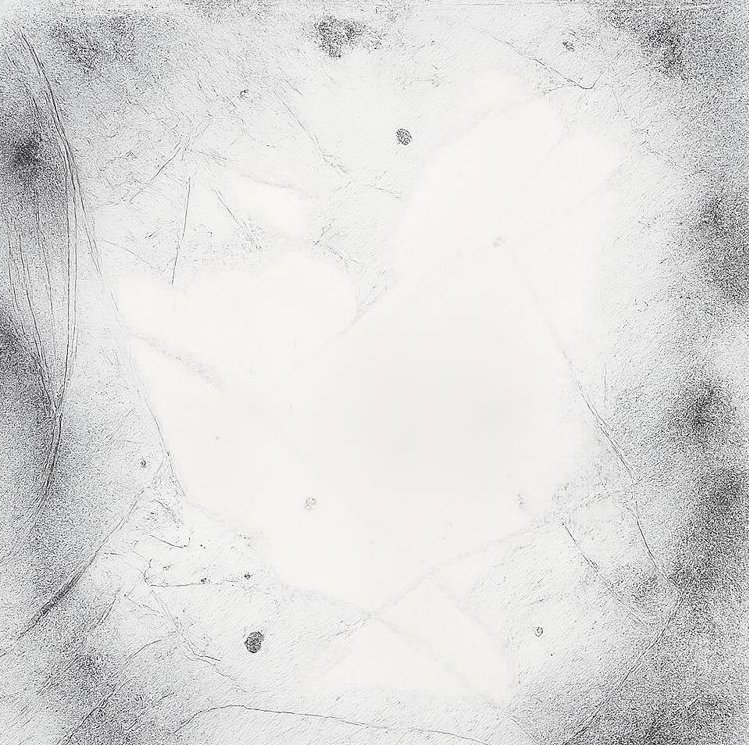
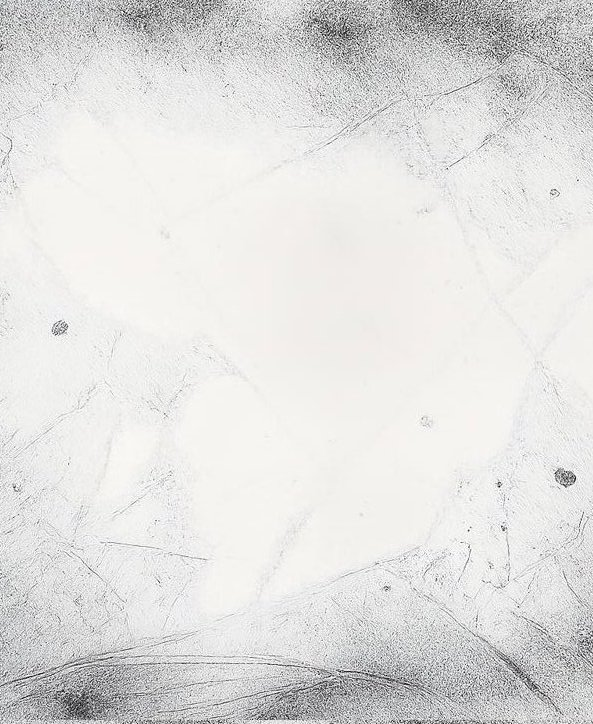
[ADD] HUD overlay and circle clip to periscope

diff --git a/pw2/System/MyPostProcessing.js b/pw2/System/MyPostProcessing.js
@@ -4,12 +4,13 @@ import { RenderPass } from 'three/addons/postprocessing/RenderPass.js';
 import { BokehPass } from 'three/addons/postprocessing/BokehPass.js';
 import { OutputPass } from 'three/addons/postprocessing/OutputPass.js';
 import { TintEffect } from './TintEffect.js';
-import { ScratchesEffect } from './ScratchesEffect.js';
+import { CameraOverlay } from './CameraOverlay.js';
+import { CircleClip } from './CircleClip.js'
 
 /**
- * @param {number} leafSize
- * @param {number} leafSize
- * @param {number} leafSize
+ * MyPostProcessing
+ * Manages the render and post-processing effects.
+ * Controls which effects are applied based on the active camera.
  */
 class MyPostProcessing {
     constructor (
@@ -30,13 +31,13 @@ class MyPostProcessing {
     this.renderPass = new RenderPass(scene, camera);
     this.composer.addPass(this.renderPass);
 
+    // DoF effect
     this.params = {
         focus: 5,
         aperture: 0.00025,
         maxblur: 0.01
     };
 
-    // DoF effect
     this.bokehPass = new BokehPass(scene, camera, {
         focus: this.params.focus,
         aperture: this.params.aperture,
@@ -46,6 +47,7 @@ class MyPostProcessing {
     this.bokehPass.enabled = false
     this.composer.addPass(this.bokehPass);
 
+    // Output Pass for color
     this.outputPass = new OutputPass();
     this.composer.addPass(this.outputPass);
 
@@ -59,9 +61,17 @@ class MyPostProcessing {
     // Scratches effect
     const loader = new THREE.TextureLoader()
     const scratchesTex = loader.load('objects/assets/periscope/scratches.jpeg')
-    this.scratchesEffect = new ScratchesEffect(scratchesTex, 0.2)
+    this.scratchesEffect = new CameraOverlay(scratchesTex, 0.3, false)
     this.composer.addPass(this.scratchesEffect.pass)
 
+    // HUD effect
+    const hudTex = loader.load('objects/assets/periscope/HUD.png')
+    this.hudEffect = new CameraOverlay(hudTex, 0.7, true)
+    this.composer.addPass(this.hudEffect.pass)
+
+    // Clip effect
+    this.circleClipEffect = new CircleClip(0.55)
+    this.composer.addPass(this.circleClipEffect.pass)
     }
 
     update() {
@@ -81,11 +91,22 @@ class MyPostProcessing {
         this.bokehPass.enabled = !!camera.userData.useDOF;
         this.tintEffect.pass.enabled = !!camera.userData.useTint;
         this.scratchesEffect.pass.enabled = !!camera.userData.useScratches;
-        
+        this.hudEffect.pass.enabled = !!camera.userData.useHUD;
+        this.circleClipEffect.pass.enabled = !!camera.userData.useCircleClip
     }
 
     resize(width, height) {
         this.composer.setSize(width * this.resScale, height * this.resScale);
+
+        if (this.hudEffect.pass.enabled) {
+            this.hudEffect.resize(width, height)
+        }
+        if (this.scratchesEffect.pass.enabled) {
+            this.scratchesEffect.resize(width, height)
+        }
+        if (this.circleClipEffect.pass.enabled) {
+            this.circleClipEffect.resize(width, height)
+        }
     }
 
     render() {

diff --git a/pw2/System/CameraOverlay.js b/pw2/System/CameraOverlay.js
@@ -1,0 +1,72 @@
+import * as THREE from 'three'
+import { ShaderPass } from 'three/addons/postprocessing/ShaderPass.js'
+
+/**
+ * CameraOverlay
+ * Applies a screen-space overlay texture to the camera view.
+ *
+ * Note: the input texture must have a white background.
+ * A multiply blend is used, where white is neutral and darker details remain visible.
+ */
+class CameraOverlay {
+    constructor(texture, strength = 0.3, keepAspect = false) {
+
+        this.pass = new ShaderPass({
+            uniforms: {
+                tDiffuse: { value: null },
+                inputTex: { value: texture },
+                strength: { value: strength },
+                resolution: { value: new THREE.Vector2(window.innerWidth, window.innerHeight) },
+                uKeepAspect: { value: keepAspect ? 1.0 : 0.0 }
+            },
+
+            vertexShader: `
+                varying vec2 vUv;
+                void main() {
+                    vUv = uv;
+                    gl_Position = projectionMatrix * modelViewMatrix * vec4(position, 1.0);
+                }
+            `,
+
+            fragmentShader: `
+                uniform sampler2D tDiffuse;
+                uniform sampler2D inputTex;
+                uniform float strength;
+                uniform vec2 resolution;
+                uniform float uKeepAspect;
+                varying vec2 vUv;
+
+                void main() {
+                    vec2 uv = vUv;
+
+                    if (uKeepAspect > 0.5) {
+                        float aspect = resolution.x / resolution.y;
+                        uv.x = (uv.x - 0.5) * aspect + 0.5;
+
+                        if (uv.x < 0.0 || uv.x > 1.0 || uv.y < 0.0 || uv.y > 1.0) {
+                            gl_FragColor = texture2D(tDiffuse, vUv);
+                            return;
+                        }
+                    }
+
+                    vec4 baseColor = texture2D(tDiffuse, vUv);
+                    vec3 Tex = 1.0 - texture2D(inputTex, uv).rgb;
+
+                    gl_FragColor = vec4(baseColor.rgb + Tex * strength, baseColor.a);
+                }
+            `
+        })
+
+        this.pass.enabled = false
+    }
+
+    setStrength(v) {
+        this.pass.uniforms.strength.value = v
+    }
+
+    resize(width, height) {
+        this.pass.uniforms.resolution.value.set(width, height)
+    }
+}
+
+export { CameraOverlay }

diff --git a/pw2/System/CircleClip.js b/pw2/System/CircleClip.js
@@ -1,0 +1,55 @@
+import * as THREE from 'three'
+import { ShaderPass } from 'three/addons/postprocessing/ShaderPass.js'
+
+class CircleClip {
+    constructor(radius = 0.45) {
+        this.pass = new ShaderPass({
+            uniforms: {
+                tDiffuse: {value: null},
+                radius: {value: radius},
+                resolution: { value: new THREE.Vector2(window.innerWidth, window.innerHeight) }
+            },
+
+            vertexShader: `
+                varying vec2 vUv;
+                void main() {
+                    vUv = uv;
+                    gl_Position = projectionMatrix * modelViewMatrix * vec4(position, 1.0);
+                }
+            `,
+
+            fragmentShader: `
+                uniform sampler2D tDiffuse;
+                uniform float radius;
+                uniform vec2 resolution;
+                varying vec2 vUv;
+
+                void main() {
+                    vec2 uv = vUv;
+                    float aspect = resolution.x / resolution.y;
+                    uv.x = (uv.x - 0.5) * aspect + 0.5;
+                    
+                    float dist = distance(uv, vec2(0.5));
+
+                    if (dist > radius) {
+                        gl_FragColor = vec4(0.0, 0.0, 0.0, 1.0);
+                        return;
+                    }
+                    gl_FragColor = texture2D(tDiffuse, vUv);
+                }
+            `,
+        })
+
+        this.pass.enabled = false;
+    }
+
+    setRadius(r) {
+        this.pass.uniforms.radius.value = r
+    }
+
+    resize(width, height) {
+        this.pass.uniforms.resolution.value.set(width, height)
+    }
+}
+
+export { CircleClip };

diff --git a/pw2/MyApp.js b/pw2/MyApp.js
@@ -133,6 +133,8 @@ class MyApp  {
         firstPersonView.userData.useDOF = true
         firstPersonView.userData.useTint = true
         firstPersonView.userData.useScratches = true
+        firstPersonView.userData.useHUD = true
+        firstPersonView.userData.useCircleClip = true
         this.cameras['1PersonSubmarine'] = firstPersonView
     }
 
